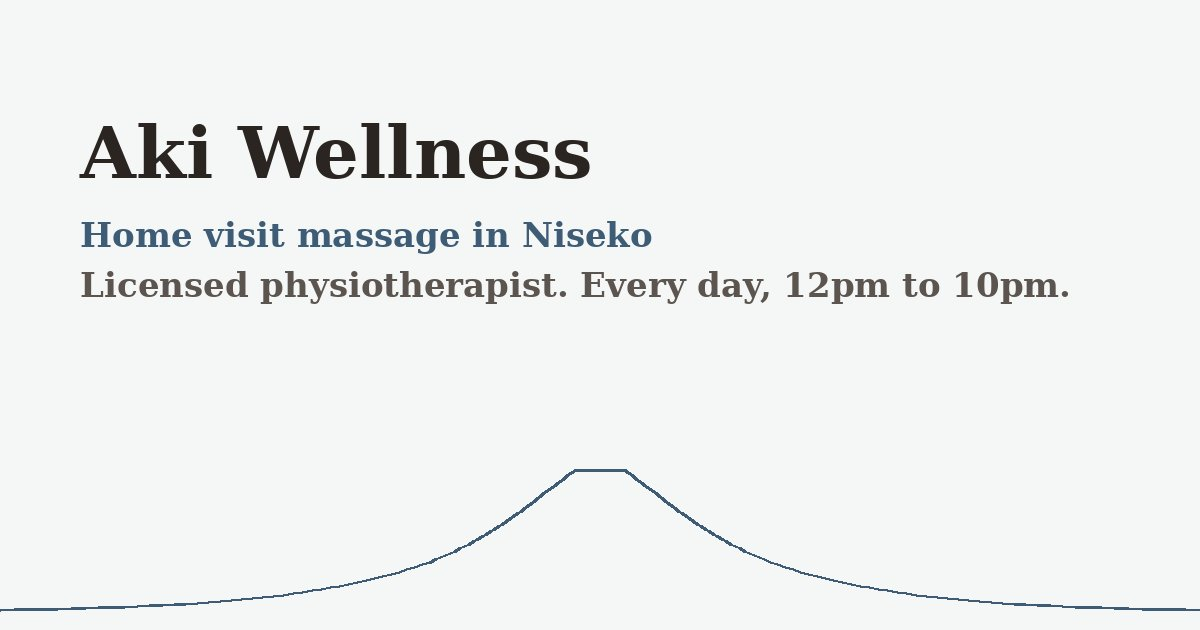
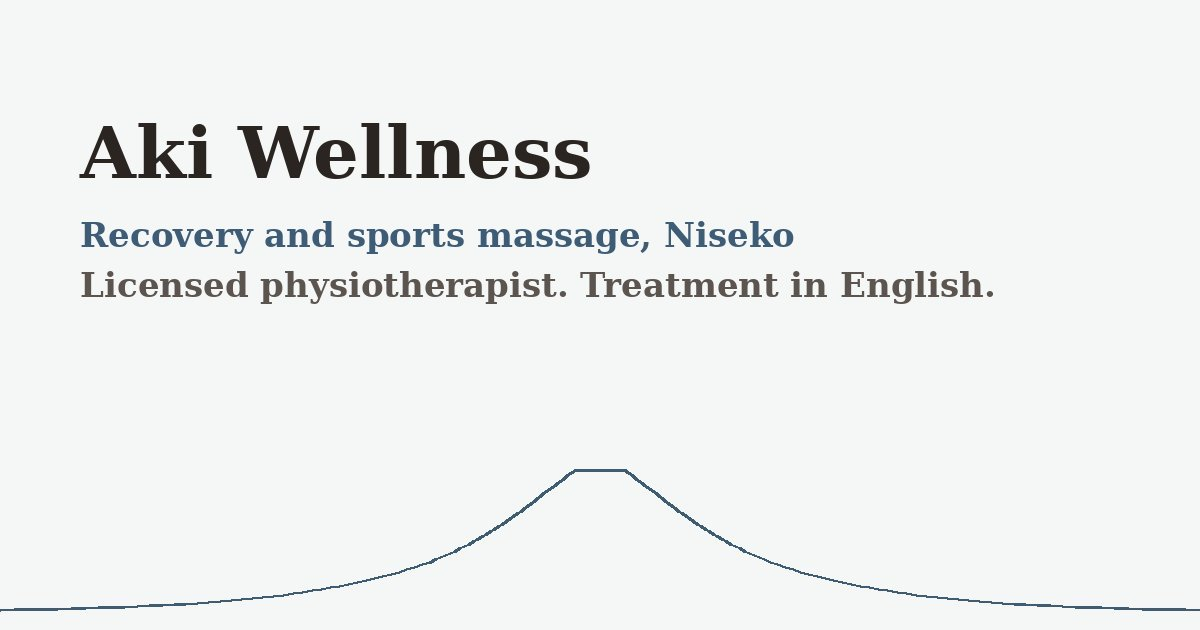
Add files via upload

Changed region(s): [[0.0617, 0.3317, 0.8942, 0.4825]]

diff --git a/index.html b/index.html
@@ -3,8 +3,8 @@
 <head>
 <meta charset="utf-8">
 <meta name="viewport" content="width=device-width, initial-scale=1, viewport-fit=cover">
-<title>Aki Wellness | Home Visit Massage and Sports Massage in Niseko</title>
-<meta name="description" content="Massage at your hotel, condo or chalet in Niseko from a Japan licensed physiotherapist. Dry, oil and sports massage from ¥25,000. Open every day, 12pm to 10pm.">
+<title>Niseko Sports Massage and Ski Recovery by a Physiotherapist | Aki Wellness</title>
+<meta name="description" content="Recovery and conditioning massage for skiers in Niseko from a Japan licensed physiotherapist. Sports massage, assessment and stretching at your accommodation, in English. Daily 12pm to 10pm.">
 <link rel="canonical" href="https://akiwellness.jp/">
 <link rel="alternate" hreflang="en" href="https://akiwellness.jp/">
 <link rel="alternate" hreflang="ja" href="https://akiwellness.jp/ja/">
@@ -14,8 +14,8 @@
 
 <meta property="og:type" content="website">
 <meta property="og:site_name" content="Aki Wellness">
-<meta property="og:title" content="Home visit massage in Niseko | Aki Wellness">
-<meta property="og:description" content="A licensed physiotherapist who comes to your hotel, condo or chalet. Every day, 12pm to 10pm.">
+<meta property="og:title" content="Ski recovery and sports massage in Niseko | Aki Wellness">
+<meta property="og:description" content="Recovery conditioning massage from a licensed physiotherapist, at your accommodation, in English.">
 <meta property="og:url" content="https://akiwellness.jp/">
 <meta property="og:image" content="https://akiwellness.jp/assets/og.jpg">
 <meta property="og:locale" content="en_US">
@@ -36,7 +36,7 @@
       "@id": "https://akiwellness.jp/#business",
       "name": "Aki Wellness",
       "alternateName": "アキ ウェルネス",
-      "description": "Home visit massage and sports massage in Niseko, Hokkaido. Treatments by Aki Irikawa, a Japan licensed physiotherapist with over 16 years of experience, at your hotel, condominium or chalet.",
+      "description": "Recovery conditioning and sports massage for skiers and snowboarders in Niseko, Hokkaido. Aki Irikawa, a Japan licensed physiotherapist with over 16 years of clinical experience, provides assessment and treatment at guests' accommodation, in English.",
       "url": "https://akiwellness.jp/",
       "image": "https://akiwellness.jp/assets/og.jpg",
       "telephone": "+81-90-7482-1882",
@@ -94,13 +94,13 @@
     {
       "@type": "FAQPage",
       "mainEntity": [
+        {"@type": "Question", "name": "Do I need to speak Japanese?", "acceptedAnswer": {"@type": "Answer", "text": "No. Aki speaks English, and booking, payment and the treatment itself all happen in English."}},
         {"@type": "Question", "name": "Which areas of Niseko do you cover?", "acceptedAnswer": {"@type": "Answer", "text": "Hirafu (upper and lower), Hanazono, Annupuri, Niseko Village, Moiwa and Kutchan town. If you are staying further out, send a message and Aki will let you know."}},
         {"@type": "Question", "name": "What do I need to prepare?", "acceptedAnswer": {"@type": "Answer", "text": "A clear patch of floor about 2 m by 1 m. Aki brings the massage table, towels and oil. Shower beforehand if you have just come off the mountain."}},
-        {"@type": "Question", "name": "How does payment work?", "acceptedAnswer": {"@type": "Answer", "text": "You pay a ¥10,000 deposit by card when you book online. The balance is paid on the day of your treatment."}},
+        {"@type": "Question", "name": "How does payment work?", "acceptedAnswer": {"@type": "Answer", "text": "You pay a ¥10,000 deposit online by card, Apple Pay or Google Pay when you book. Prices are in yen and your card converts them. The balance is paid on the day of your treatment."}},
         {"@type": "Question", "name": "What is the cancellation policy?", "acceptedAnswer": {"@type": "Answer", "text": "Cancelling on the day of the treatment is charged at 100%. Cancelling the day before is charged at 50%. Cancel two or more days ahead and your deposit is refunded."}},
         {"@type": "Question", "name": "Can Aki help with a ski injury?", "acceptedAnswer": {"@type": "Answer", "text": "Aki is a Japan licensed physiotherapist, so she can assess and work on sore muscles, tight hips, knees and backs after skiing or hiking. For suspected fractures, head knocks or anything serious, see a clinic first."}},
-        {"@type": "Question", "name": "How far ahead should I book?", "acceptedAnswer": {"@type": "Answer", "text": "Same day bookings are often possible, especially early afternoon. In peak season, from Christmas through February, book a few days ahead for evening slots."}},
-        {"@type": "Question", "name": "Does Aki speak English?", "acceptedAnswer": {"@type": "Answer", "text": "Yes. Aki works in English and Japanese."}}
+        {"@type": "Question", "name": "How far ahead should I book?", "acceptedAnswer": {"@type": "Answer", "text": "Same day bookings are often possible, especially early afternoon. In peak season, from Christmas through February, book a few days ahead for evening slots."}}
       ]
     }
   ]
@@ -126,17 +126,17 @@
   <div class="wrap">
     <div class="hero-grid">
       <div>
-        <p class="status" data-status data-open="false"><span class="status-dot" aria-hidden="true"></span><span data-status-text>Open every day, 12pm to 10pm</span></p>
-        <h1 id="hero-title">Massage at your door in Niseko.</h1>
-        <p class="hero-lede">Aki is a Japan licensed physiotherapist with more than 16 years of experience. She brings the table to your hotel, condo or chalet, every day of the year from 12pm to 10pm.</p>
+        <p class="status" data-status data-open="false"><span class="status-dot" aria-hidden="true"></span><span data-status-text>Treatments daily, 12pm to 10pm</span></p>
+        <h1 id="hero-title">Sports massage and ski recovery in Niseko.</h1>
+        <p class="hero-lede">Aki is a Japan licensed physiotherapist with 16 years of clinical experience. She checks what the day's skiing has done to your legs, hips and back, then treats it so you're ready for the next morning. She travels to your accommodation with a treatment table and works in English.</p>
         <div class="hero-ctas">
           <a class="btn btn-primary" href="#book">Choose a treatment</a>
           <a class="btn btn-ghost" data-wa="Hi Aki, I have a question about a massage in Niseko." href="https://wa.me/819074821882">Message on WhatsApp</a>
         </div>
         <ul class="creds">
           <li>Licensed physiotherapist</li>
-          <li>Japanese Red Cross CPR</li>
-          <li>English and Japanese</li>
+          <li>16 years clinical experience</li>
+          <li>Treatment in English</li>
         </ul>
       </div>
       <!-- REPLACE: hero photo of Aki treating a guest. Use /assets/aki-hero.jpg, 1200x1500, under 250 KB -->
@@ -154,7 +154,7 @@
   <div class="wrap">
     <div class="section-head">
       <h2 id="book-title">Choose your treatment</h2>
-      <p>Pick a style and length. A ¥10,000 deposit holds your booking and Aki confirms the time with you by message.</p>
+      <p>Pick a style and length. A ¥10,000 deposit by card, Apple Pay or Google Pay holds your booking, and Aki confirms the time with you on WhatsApp.</p>
     </div>
 
     <form class="picker" data-picker onsubmit="return false">
@@ -164,15 +164,15 @@
           <div class="styles">
             <div class="opt">
               <input type="radio" name="style" id="s-dry" value="dry">
-              <label for="s-dry"><span class="name">Dry massage</span><span class="desc">No oil, done through light clothing. Firm pressure and stretching in the Japanese style.</span></label>
+              <label for="s-dry"><span class="name">Dry massage</span><span class="desc">Japanese style muscle work through light clothing, no oil. Firm pressure and assisted stretching for stiffness.</span></label>
             </div>
             <div class="opt">
               <input type="radio" name="style" id="s-oil" value="oil">
-              <label for="s-oil"><span class="name">Oil massage</span><span class="desc">Long, slow strokes with warm oil. The one to pick if you want to sleep well tonight.</span></label>
+              <label for="s-oil"><span class="name">Oil massage</span><span class="desc">Full body muscle work with oil. Suits a rest day or general recovery after several days on the mountain.</span></label>
             </div>
             <div class="opt">
               <input type="radio" name="style" id="s-sports" value="sports" checked>
-              <label for="s-sports"><span class="name">Sports massage &amp; physio</span><span class="desc">Deeper work on legs, hips and back, with a physiotherapist's assessment and stretching. Good after a big day on the mountain.</span></label>
+              <label for="s-sports"><span class="name">Sports massage &amp; physio</span><span class="desc">Assessment, then targeted work on quads, calves, hips and lower back, with stretching. Aki's main treatment for skiers and snowboarders.</span></label>
             </div>
           </div>
         </fieldset>
@@ -200,7 +200,7 @@
         </ul>
         <a class="btn btn-primary" data-book href="#">Pay deposit and book</a>
         <a class="btn btn-ghost" data-ask href="https://wa.me/819074821882">Ask Aki first</a>
-        <p class="fineprint">After paying, you'll be asked for your preferred time and where you're staying. Aki replies to confirm, usually within the hour.</p>
+        <p class="fineprint">After paying, add your preferred time and where you're staying. Aki replies in English on WhatsApp to confirm. Prices are in yen; your card converts at your bank's rate.</p>
       </div>
     </form>
 
@@ -226,7 +226,7 @@
     <ol class="steps">
       <li><h3>Pay the deposit</h3><p>Choose a treatment above and pay ¥10,000 by card. Add your preferred time and your hotel or address.</p></li>
       <li><h3>Aki confirms</h3><p>She messages you on WhatsApp or LINE to lock in the time. If your slot is taken, she'll offer the nearest one.</p></li>
-      <li><h3>She comes to you</h3><p>Aki arrives with the table, towels and oil. You pay the balance at the end and go straight to bed.</p></li>
+      <li><h3>Assessment and treatment</h3><p>Aki arrives with a treatment table, asks where you're sore and how you've been skiing, then gets to work. The balance is paid at the end.</p></li>
     </ol>
   </div>
 </section>
@@ -253,7 +253,7 @@
   <div class="wrap">
     <div class="section-head">
       <h2 id="area-title">Where Aki visits</h2>
-      <p>Hotels, condominiums, chalets and private homes across the Niseko area, all year round. Winter is mostly skiers and snowboarders. Summer brings hikers, golfers and cyclists.</p>
+      <p>Hotels, condominiums and chalets across the Niseko area. Most clients are skiers and snowboarders in winter. Aki works all year, so hikers, golfers and cyclists book her in summer.</p>
     </div>
     <ul class="areas">
       <li>Hirafu</li>
@@ -268,6 +268,17 @@
   </div>
 </section>
 
+
+<section aria-labelledby="host-title">
+  <div class="wrap">
+    <div class="section-head">
+      <h2 id="host-title">For chalet hosts and concierges</h2>
+      <p>Booking for a guest? Message Aki on WhatsApp with the guest's name, the property and a preferred time. She confirms with you directly and brings her own treatment table and towels.</p>
+    </div>
+    <a class="btn btn-ghost" data-wa="Hi Aki, I'm booking a massage for a guest. Guest name, property and preferred time: " href="https://wa.me/819074821882">Book for a guest on WhatsApp</a>
+  </div>
+</section>
+
 <!-- REPLACE: real guest reviews (Google or direct). Do not add Review schema until reviews are real. -->
 <section class="band" aria-labelledby="reviews-title">
   <div class="wrap">
@@ -275,8 +286,8 @@
       <h2 id="reviews-title">What guests say</h2>
     </div>
     <div class="reviews">
-      <blockquote><p>"Placeholder review. Three days of powder and my legs were done. Aki found the exact spot in my hip that had been bothering me since day one."</p><cite>Guest name, country</cite></blockquote>
-      <blockquote><p>"Placeholder review. She arrived on time, set up in ten minutes and I was asleep before she'd packed up."</p><cite>Guest name, country</cite></blockquote>
+      <blockquote><p>"Placeholder review. Aki worked out my hip was compensating for a tight calf. I skied the rest of the week without it bothering me."</p><cite>Guest name, country</cite></blockquote>
+      <blockquote><p>"Placeholder review. Proper physio knowledge, not just a rubdown. She gave me two stretches to do before skiing each morning."</p><cite>Guest name, country</cite></blockquote>
       <blockquote><p>"Placeholder review. Booked the kids in for sports massage after ski school. They're asking for it again next year."</p><cite>Guest name, country</cite></blockquote>
     </div>
   </div>
@@ -287,13 +298,13 @@
     <div class="section-head">
       <h2 id="faq-title">Questions</h2>
     </div>
+    <details><summary>Do I need to speak Japanese?</summary><p>No. Aki speaks English, and booking, payment and the treatment itself all happen in English.</p></details>
     <details><summary>Which areas of Niseko do you cover?</summary><p>Hirafu (upper and lower), Hanazono, Annupuri, Niseko Village, Moiwa and Kutchan town. If you're staying further out, send a message and Aki will let you know.</p></details>
     <details><summary>What do I need to prepare?</summary><p>A clear patch of floor about 2 m by 1 m. Aki brings the massage table, towels and oil. Shower beforehand if you've just come off the mountain.</p></details>
-    <details><summary>How does payment work?</summary><p>You pay a ¥10,000 deposit by card when you book online. The balance is paid on the day of your treatment.</p></details>
+    <details><summary>How does payment work?</summary><p>You pay a ¥10,000 deposit online by card, Apple Pay or Google Pay when you book. Prices are in yen and your card converts them. The balance is paid on the day of your treatment.</p></details>
     <details><summary>What is the cancellation policy?</summary><p>Cancelling on the day of the treatment is charged at 100%. Cancelling the day before is charged at 50%. Cancel two or more days ahead and your deposit is refunded.</p></details>
     <details><summary>Can Aki help with a ski injury?</summary><p>Aki is a Japan licensed physiotherapist, so she can assess and work on sore muscles, tight hips, knees and backs after skiing or hiking. For suspected fractures, head knocks or anything serious, see a clinic first.</p></details>
     <details><summary>How far ahead should I book?</summary><p>Same day bookings are often possible, especially early afternoon. In peak season, from Christmas through February, book a few days ahead for evening slots.</p></details>
-    <details><summary>Does Aki speak English?</summary><p>Yes. Aki works in English and Japanese.</p></details>
   </div>
 </section>
 
@@ -312,8 +323,8 @@
 
 <section class="closing" aria-labelledby="closing-title">
   <div class="wrap">
-    <h2 id="closing-title">Book tonight's massage.</h2>
-    <p style="margin-top:12px">Aki takes bookings every day from 12pm to 10pm.</p>
+    <h2 id="closing-title">Recover properly between ski days.</h2>
+    <p style="margin-top:12px">Aki treats skiers and snowboarders every day from 12pm to 10pm, all season.</p>
     <div class="hero-ctas" style="margin-top:26px">
       <a class="btn btn-primary" href="#book">Choose a treatment</a>
       <a class="btn btn-ghost" data-wa="Hi Aki, I'd like to book a massage." href="https://wa.me/819074821882">WhatsApp Aki</a>

diff --git a/ja/index.html b/ja/index.html
@@ -100,8 +100,8 @@
     <div class="hero-grid">
       <div>
         <p class="status" data-status data-open="false"><span class="status-dot" aria-hidden="true"></span><span data-status-text>年中無休　12時から22時</span></p>
-        <h1 id="hero-title">ニセコの滞在先へ、<br>マッサージをお届けします。</h1>
-        <p class="hero-lede">施術するのは、理学療法士として16年以上の経験を持つAki。ホテル、コンドミニアム、別荘まで施術台を持って伺います。年中無休、12時から22時まで。</p>
+        <h1 id="hero-title">ニセコで、スキーのあとの<br>リカバリー・コンディショニング。</h1>
+        <p class="hero-lede">理学療法士として16年以上の臨床経験を持つAkiが、スキーで疲れた脚、股関節、腰の状態を確認し、翌日に備えて整えます。施術台を持って滞在先へ伺います。年中無休、12時から22時まで。</p>
         <div class="hero-ctas">
           <a class="btn btn-primary" href="#book">メニューを選ぶ</a>
           <a class="btn btn-ghost" href="https://line.me/ti/p/~aki-a-iri">LINEで相談する</a>
@@ -141,11 +141,11 @@
             </div>
             <div class="opt">
               <input type="radio" name="style" id="s-oil" value="oil">
-              <label for="s-oil"><span class="name">オイルマッサージ</span><span class="desc">温めたオイルで、ゆっくり流すように。ぐっすり眠りたい夜に。</span></label>
+              <label for="s-oil"><span class="name">オイルマッサージ</span><span class="desc">オイルを使った全身の筋肉のケア。休息日や、連日の滑走後のリカバリーに。</span></label>
             </div>
             <div class="opt">
               <input type="radio" name="style" id="s-sports" value="sports" checked>
-              <label for="s-sports"><span class="name">スポーツマッサージ＆理学療法</span><span class="desc">脚、股関節、腰を中心に深めの施術。理学療法士の視点で状態を確認し、ストレッチも行います。</span></label>
+              <label for="s-sports"><span class="name">スポーツマッサージ＆理学療法</span><span class="desc">状態を確認したうえで、太もも、ふくらはぎ、股関節、腰を中心に施術し、ストレッチも行います。スキーヤー、スノーボーダー向けのメインメニューです。</span></label>
             </div>
           </div>
         </fieldset>
@@ -197,7 +197,7 @@
     <ol class="steps">
       <li><h3>デポジットのお支払い</h3><p>メニューを選び、¥10,000をカードでお支払いください。ご希望の時間と滞在先もあわせて入力します。</p></li>
       <li><h3>Akiから確認</h3><p>LINEまたはWhatsAppで時間を確定します。ご希望の時間が埋まっている場合は、近い時間をご提案します。</p></li>
-      <li><h3>滞在先へ伺います</h3><p>施術台、タオル、オイルを持参します。残金は施術後にお支払いください。そのままお休みいただけます。</p></li>
+      <li><h3>確認と施術</h3><p>施術台を持って伺い、痛む場所や滑り方をお聞きしてから施術します。残金は施術後にお支払いください。</p></li>
     </ol>
   </div>
 </section>
@@ -239,13 +239,24 @@
   </div>
 </section>
 
+
+<section aria-labelledby="host-title">
+  <div class="wrap">
+    <div class="section-head">
+      <h2 id="host-title">ホテル・管理会社・コンシェルジュの方へ</h2>
+      <p>海外からのゲストの施術も英語で対応します。ゲスト名、滞在先、希望時間をLINEでお送りください。確認のご連絡はご担当者様へ直接差し上げます。</p>
+    </div>
+    <a class="btn btn-ghost" href="https://line.me/ti/p/~aki-a-iri">LINEでゲストの予約をする</a>
+  </div>
+</section>
+
 <!-- REPLACE: 実際のお客様の声。本物が揃うまでReviewの構造化データは入れないこと。 -->
 <section class="band" aria-labelledby="reviews-title">
   <div class="wrap">
     <div class="section-head"><h2 id="reviews-title">お客様の声</h2></div>
     <div class="reviews">
       <blockquote><p>「仮のレビューです。3日間滑り続けて脚が限界でしたが、初日から気になっていた股関節の張りをピンポイントでほぐしてもらえました。」</p><cite>お名前、地域</cite></blockquote>
-      <blockquote><p>「仮のレビューです。時間どおりに来てくれて、準備も10分ほど。終わったころにはもう眠っていました。」</p><cite>お名前、地域</cite></blockquote>
+      <blockquote><p>「仮のレビューです。理学療法士ならではの説明がわかりやすく、毎朝滑る前にやるストレッチも教えてもらいました。」</p><cite>お名前、地域</cite></blockquote>
       <blockquote><p>「仮のレビューです。スキースクールのあと、子どもたちもスポーツマッサージを受けました。来年もお願いしたいそうです。」</p><cite>お名前、地域</cite></blockquote>
     </div>
   </div>
@@ -276,8 +287,8 @@
 
 <section class="closing" aria-labelledby="closing-title">
   <div class="wrap">
-    <h2 id="closing-title">今夜のマッサージを予約する。</h2>
-    <p style="margin-top:12px">毎日12時から22時まで受け付けています。</p>
+    <h2 id="closing-title">次の滑走に備えて、しっかりリカバリー。</h2>
+    <p style="margin-top:12px">シーズン中も毎日12時から22時まで施術しています。</p>
     <div class="hero-ctas" style="margin-top:26px">
       <a class="btn btn-primary" href="#book">メニューを選ぶ</a>
       <a class="btn btn-ghost" href="https://line.me/ti/p/~aki-a-iri">LINEで予約</a>

diff --git a/assets/app.js b/assets/app.js
@@ -26,15 +26,15 @@ const T = {
   en: {
     names: { dry: "Dry massage", oil: "Oil massage", sports: "Sports massage & physio" },
     choice: (n, d) => `${n}, ${d} min`,
-    open: "Available today until 10pm",
-    before: "Opens at 12pm today. Book ahead now.",
-    after: "Closed for today. Booking for tomorrow from 12pm.",
+    open: "Taking bookings today, 12pm to 10pm",
+    before: "Treatments from 12pm today",
+    after: "Now booking from 12pm tomorrow",
     wa: (s, d) => `Hi Aki, I'd like to book a ${d} minute ${s}. Date, time and where I'm staying: `
   },
   ja: {
     names: { dry: "ドライマッサージ", oil: "オイルマッサージ", sports: "スポーツマッサージ＆理学療法" },
     choice: (n, d) => `${n}　${d}分`,
-    open: "本日22時まで受付中",
+    open: "本日12時から22時まで受付中",
     before: "本日12時から営業。事前予約を受付中です。",
     after: "本日の受付は終了しました。明日12時からのご予約を受付中です。",
     wa: (s, d) => `Akiさん、${s} ${d}分を予約したいです。希望日時と滞在先：`

diff --git a/README.md b/README.md
@@ -23,4 +23,5 @@ Static site, no build step. English at `/`, Japanese at `/ja/`.
 - How is the balance paid on the day: cash, card, PayPay?
 - Deposit refund if cancelled 2+ days ahead (copy assumes full refund)
 - Any travel fee for outlying areas?
-- "Replies within the hour" promise, is it realistic?
+- Can she do couples or back to back treatments in the same chalet? (a strong upsell for groups)
+- Is the balance payable by card? Foreign guests rarely carry much cash
